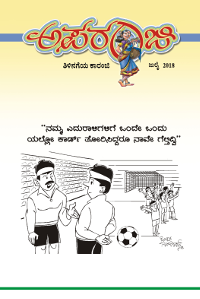
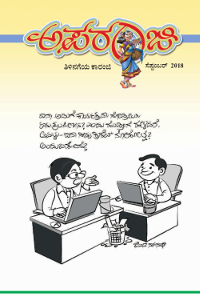
September issue updated

diff --git a/index.php b/index.php
@@ -91,7 +91,7 @@ session_start();
 			echo "		  </div>
 				</div>";
 				
-			echo "<div class=\"cover\"><a href=\"Volumes/".$currentyear."_".$currentmonth.".pdf#page=1\" target=\"_blank\"><img src=\"php/images/cover1.png\" alt=\"".$month[$currentmonth-1]."\" title=\"".$month[$currentmonth-1]." ಸಂಚಿಕೆ\"/></a></div>";
+			echo "<div class=\"cover\"><a href=\"Volumes/".$currentyear."_".$currentmonth.".pdf#page=1\" target=\"_blank\"><img src=\"php/images/cover.png\" alt=\"".$month[$currentmonth-1]."\" title=\"".$month[$currentmonth-1]." ಸಂಚಿಕೆ\"/></a></div>";
 		?>
 			
 		
